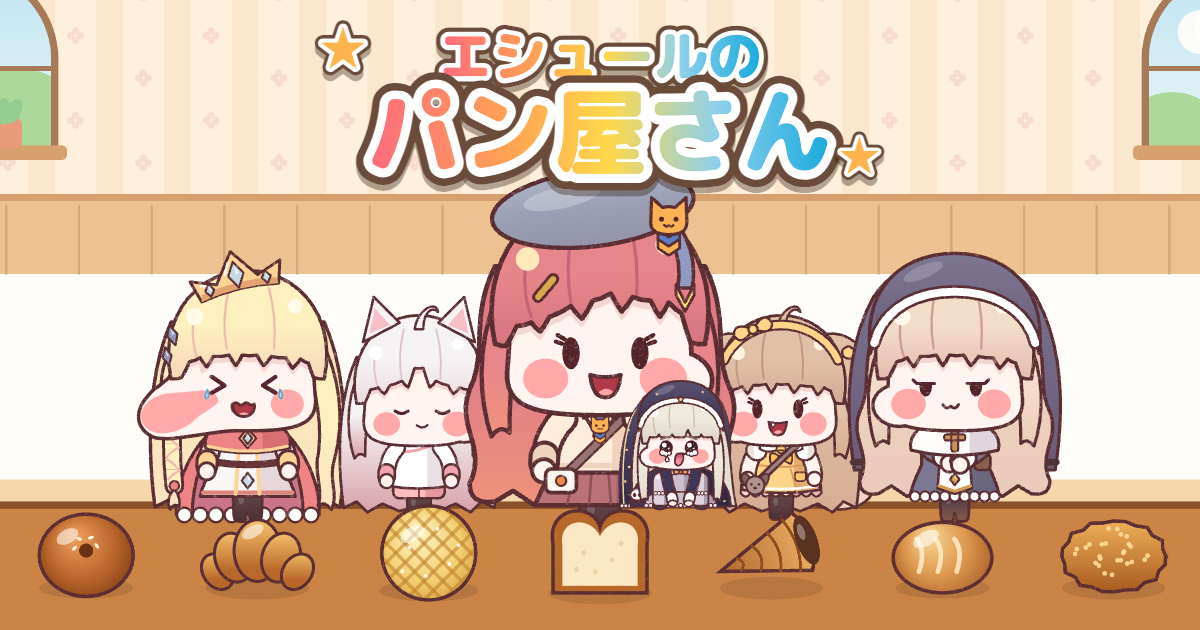
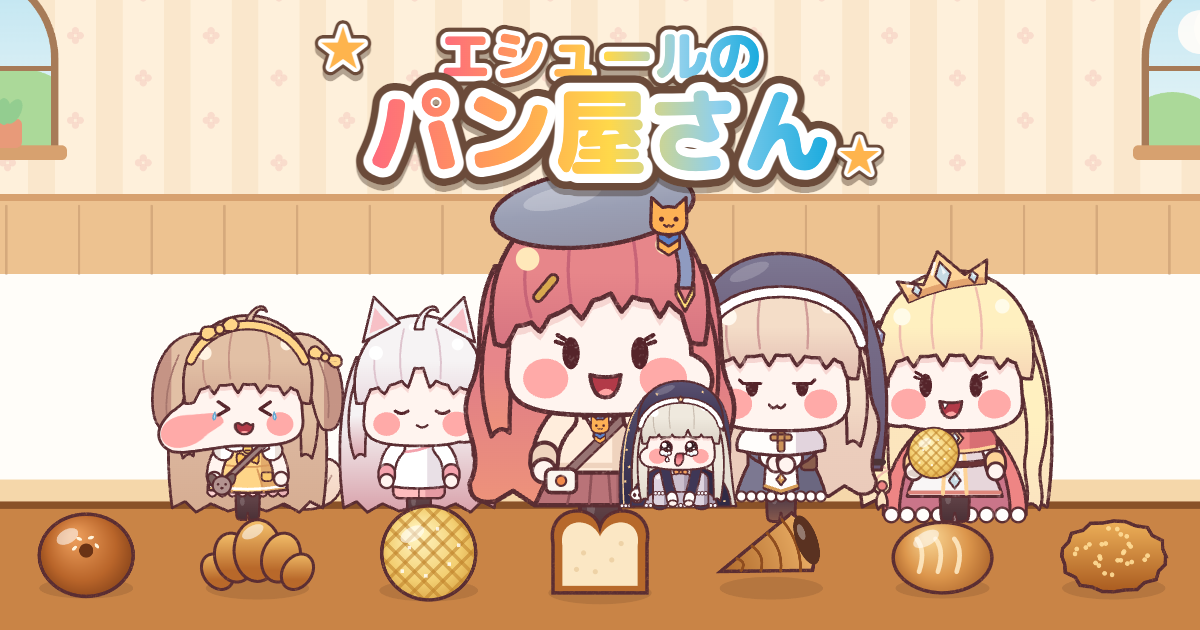
掲載用サムネイルとリンクの絵をタイトルと同じ並びで描き直し、引っぱるほっぺを今はつまめないエルフィンからバターに替えて、エルフィンにはツケで取ったパンを抱えさせる

Changed region(s): [[0.5858, 0.3921, 0.8942, 0.8444], [0.0925, 0.3921, 0.3083, 0.8444]]

diff --git a/src/dev/thumb.ts b/src/dev/thumb.ts
@@ -49,15 +49,17 @@ async function draw(): Promise<void> {
   c.fillStyle = C.woodDark;
   c.fillRect(left, 410, right - left, 6);
 
-  // エルフィンのほっぺは、ゲームと同じもちほっぺの変形で引っぱった形にする
+  // タイトルと同じ並び（バターとコミーはとなり）。バターのほっぺは、ゲームと同じもちほっぺの変形で引っぱった形にする
   const mochi = new MochiBody();
   mochi.grab(1, { x: -40, y: 30 });
   mochi.pinch.move(1, { x: -120, y: 52 });
   for (let i = 0; i < 40; i++) mochi.update(1 / 60);
-  mochi.draw(c, ELFIN, 112, 300, 54, { expr: 'pinched', t: 0, turn: -1 });
+  mochi.draw(c, BUTTER, 112, 322, 44, { expr: 'pinched', t: 0, turn: -1 });
   drawChibi(c, KOMI, 252, 322, 44, { expr: 'sleep', t: 0, turn: 1 });
-  drawChibi(c, BUTTER, 548, 322, 44, { expr: 'happy', t: 0, turn: -1 });
-  drawChibi(c, NELL, 690, 300, 54, { expr: 'smile', t: 0, turn: -1 });
+  // エルフィンはツケで取ったパンを抱えて帰るところ
+  drawChibi(c, ELFIN, 690, 300, 54, { expr: 'happy', t: 0, turn: -1 });
+  drawBread(c, 'melon', 690 - 54 * 0.32, 300 + 54 * 1.3, 54 * 0.95, dpr * 2 * S);
+  drawChibi(c, NELL, 548, 300, 54, { expr: 'smile', t: 0, turn: -1 });
   drawChibi(c, ESHUR, 400, 268, 74, { expr: 'happy', t: 0 });
   // スピキはタイトルと同じく、エシュールの右の足もとにしゃがむ
   drawChibi(c, SPEAKI, 466, 414 - feetR(SPEAKI) * 27, 27, { expr: 'happy', t: 0, turn: -1 });
